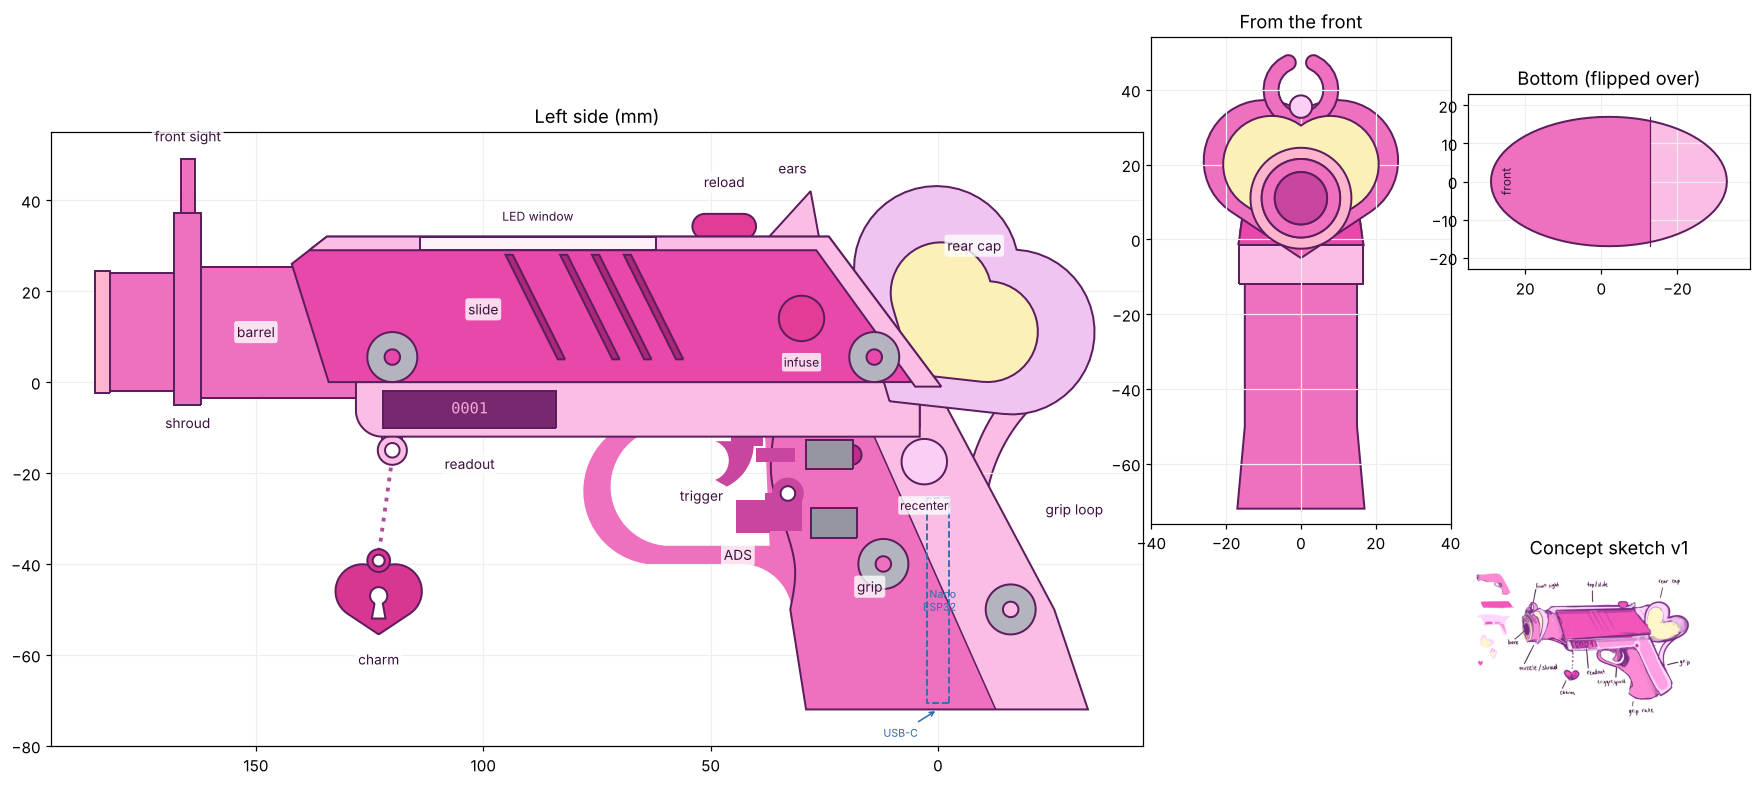
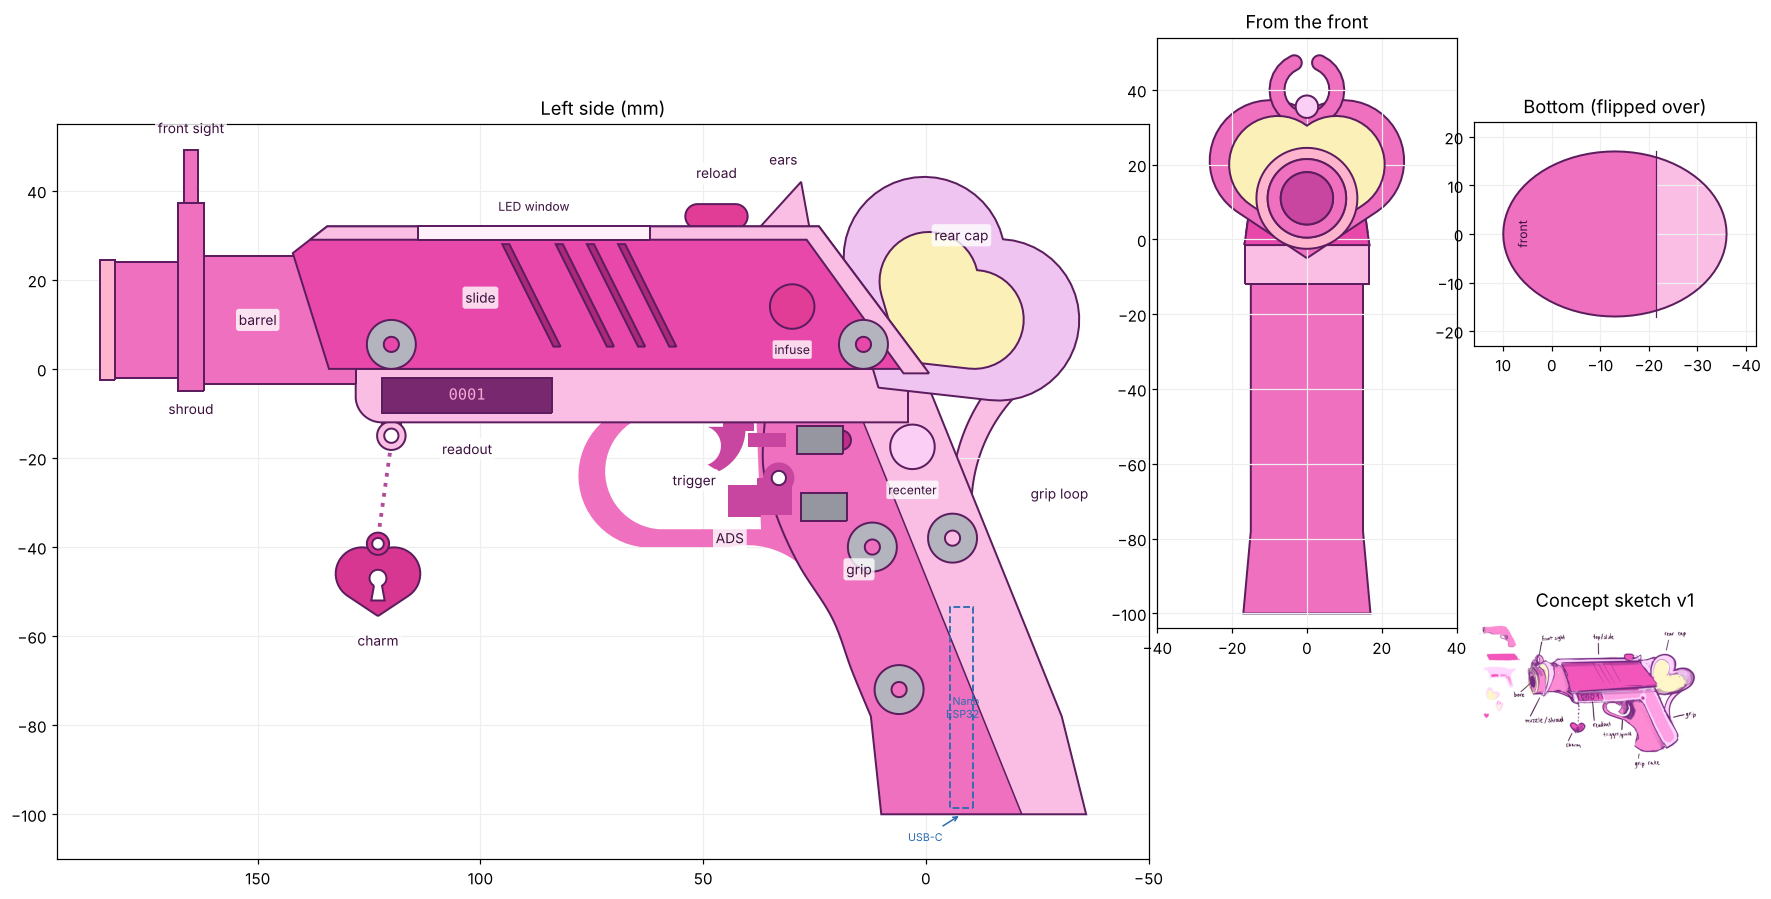
Longer, slimmer grip sized to hand measurements (v23)
Grip base moves from y=-72 to y=-100 so three fingers fit below the
trigger guard (~60 mm), and the grip is slimmed to ~40 mm round-handle
equivalent (22 deg rake front and back). Nano, standoffs, cavity, guard
web and seam follow the new grip. Preview fix for a vertex on the cut.

Claude-Session: https://claude.ai/code/session_01RDHdy5xfTrUfMAq7GtHoaE

diff --git a/Fusion/Scripts/CelestiaGunMouse/CelestiaGunMouse.py b/Fusion/Scripts/CelestiaGunMouse/CelestiaGunMouse.py
@@ -37,7 +37,7 @@ import math
 import traceback
 
 # Shown in the pop-up at the end of a run, so you can tell which version ran.
-SCRIPT_VERSION = 'v22: sturdier puffy heart (tries simpler versions before giving up)'
+SCRIPT_VERSION = 'v23: longer, slimmer grip sized to hand measurements'
 
 import adsk.core
 import adsk.fusion
@@ -87,14 +87,14 @@ SLIDE_CAVITY_TOP = SLIDE_H - TOP_STRIP_H - 2.0   # inside roof of the slide
 FRAME_CAVITY_X = (8.0, 124.0)     # hollow inside the frame, back to front
 READOUT_LIP = 1.0                 # thin rim round the window that hides a screen's edges
 READOUT_POCKET_DEPTH = 8.0        # how deep the pocket goes into the frame
-GRIP_CAVITY_BOTTOM = -52.0                        # hollow grip goes down to here
+GRIP_CAVITY_BOTTOM = -80.0                        # hollow grip goes down to here
 GRIP_CAVITY_HALF_W = 11.5                         # half width of the grip hollow (23 mm: board is 21.7)
 # Arduino Nano ESP32 (45 x 18 mm, ~5 mm thick WITHOUT headers) stands upright
 # in the grip, USB-C end down; the port opens through the bottom of the base.
 # A pocket in the base holds its USB end; tape or hot-glue the top in place.
 # The Pololu LSM6DS33 IMU (23 x 13 mm) sits in the slide, wired with 4 wires.
 BOARD_SIZE = (45.0, 18.0, 5.0)    # length, width, thickness
-BOARD_X = 0.0                     # front-back position of the board's centre
+BOARD_X = -8.0                    # front-back position of the board's centre
 BOARD_FLOOR = 1.5                 # plastic under the board's USB end
 USB_HOLE = (7.5, 13.5)            # opening for the plug (front-back, side-to-side)
 # NeoPixel stick (51.1 x 10.2 x 3.2 mm) on top of the slide between the wings,
@@ -134,8 +134,8 @@ SWITCH_HALF_LEN = 10.0            # half its 20 mm length (it lies across the gr
 FASTENER = 'standoff'
 STANDOFF_POSTS = {
     'Slide': [(120.0, 5.5), (14.0, 5.5)],
-    'Frame & Grip': [(-16.0, -50.0)],
-    'Grip panel': [(12.0, -40.0)],
+    'Frame & Grip': [(-6.0, -38.0)],
+    'Grip panel': [(12.0, -40.0), (6.0, -72.0)],
 }
 STANDOFF_POST_R = 5.5
 STANDOFF_LEN = 13.0                   # hex body length
@@ -145,8 +145,8 @@ NUT_T = 2.4                           # M3 nut thickness
 NUT_DRIVER_R = 4.0                    # hole for a 5.5 mm nut driver
 SCREW_POSTS = {
     'Slide': [(120.0, 4.0), (120.0, 22.0), (14.0, 4.0)],
-    'Frame & Grip': [(72.0, -3.5), (-16.0, -50.0)],
-    'Grip panel': [(12.0, -40.0)],
+    'Frame & Grip': [(72.0, -3.5), (-6.0, -38.0)],
+    'Grip panel': [(12.0, -40.0), (6.0, -72.0)],
 }
 POST_R = 3.5
 INSERT_R, INSERT_DEPTH = 2.0, 5.7     # M3 heat-set insert hole
@@ -192,17 +192,20 @@ READOUT_Y0, READOUT_Y1 = -10.0, -2.0
 # Grip: one shape, split into a light-pink back piece and a darker front
 # panel that sit flush and share one flat, rounded base.
 SPINE_REAR_TOP_X = 1.0      # back of the grip where it meets y = 0
-SPINE_REAR_RAKE = 28.0      # degrees from vertical
+SPINE_REAR_RAKE = 22.0      # degrees from vertical
 SPINE_FRONT_TOP_X = 14.0    # colour seam (light/dark) at the frame bottom
-SPINE_FRONT_RAKE = 24.0
+SPINE_FRONT_RAKE = 22.0     # same as the back, so the light strip stays an even width
 # Front edge of the panel: a smooth curve through these points, top to bottom
-PANEL_FRONT = [(36.0, -10.0), (36.5, -22.0), (31.5, -40.0), (33.0, -54.0), (32.0, -63.0)]
+# Sized from hand measurements (ANSUR II): about 60 mm below the trigger guard
+# for a 3-finger hold, and ~39 mm thick (as a round handle) all the way down.
+PANEL_FRONT = [(36.0, -10.0), (36.5, -22.0), (33.5, -33.0), (28.5, -44.0), (21.0, -56.0),
+               (16.5, -68.0), (11.5, -80.0), (6.5, -92.0)]
 # Flat oval base: below GRIP_CUT_Y the grip blends smoothly into a flat,
 # level bottom that is an ellipse when you flip the gun over.
-GRIP_CUT_Y = -50.0              # where the blend into the base starts
-GRIP_BASE_Y = -72.0             # the flat bottom
-BASE_CENTER_X = -2.0            # centre of the oval (front/back)
-BASE_LENGTH = 62.0              # oval length, front to back
+GRIP_CUT_Y = -78.0              # where the blend into the base starts
+GRIP_BASE_Y = -100.0            # the flat bottom
+BASE_CENTER_X = -13.0           # centre of the oval (front/back)
+BASE_LENGTH = 46.0              # oval length, front to back
 BASE_WIDTH = 34.0               # oval width, side to side
 GRIP_PIN = (19.0, -16.0)        # the little pin/screw at the top of the grip
 GRIP_PIN_R = 2.2
@@ -405,12 +408,22 @@ def slide_cavity_section():
                     (slide_half_width(hi) - WALL, hi), (-(slide_half_width(hi) - WALL), hi)])
 
 
+def front_x(y):
+    """x of the grip's front edge at height y (straight lines between the
+    PANEL_FRONT points, carried on past the ends)."""
+    pts = PANEL_FRONT
+    for (x0, y0), (x1, y1) in zip(pts, pts[1:]):
+        if y1 <= y <= y0:
+            return x0 + (x1 - x0) * (y - y0) / (y1 - y0)
+    (x0, y0), (x1, y1) = (pts[0], pts[1]) if y > pts[0][1] else (pts[-2], pts[-1])
+    return x0 + (x1 - x0) * (y - y0) / (y1 - y0)
+
+
 def grip_cavity_outline():
     """Side view of the hollow inside the grip (opens up into the frame)."""
     top, bot = -FRAME_H + 4.0, GRIP_CAVITY_BOTTOM
-    return polygon([(spine_rear_x(top) + 3.0, top), (PANEL_FRONT[0][0] - 5.5, top),
-                    (PANEL_FRONT[2][0] - 3.0, PANEL_FRONT[2][1] - 5.0), (PANEL_FRONT[3][0] - 5.0, bot),
-                    (spine_rear_x(bot) + 3.0, bot)])
+    front = [(PANEL_FRONT[0][0] - 5.5, top)] + [(front_x(y) - 3.5, y) for y in (-33.0, -44.0, -56.0, -68.0, bot)]
+    return polygon([(spine_rear_x(top) + 3.0, top)] + front + [(spine_rear_x(bot) + 3.0, bot)])
 
 
 def stadium(cx, cy, w, h):
@@ -612,17 +625,18 @@ def grip_outline():
 def grip_seam():
     """Line splitting the grip into the light back piece and the dark panel,
     running right through the base."""
-    return [('line', (spine_front_x(0.0), 0.0), (spine_front_x(-90.0), -90.0))]
+    y_end = GRIP_BASE_Y - 15.0             # past the base so the split goes all the way through
+    return [('line', (spine_front_x(0.0), 0.0), (spine_front_x(y_end), y_end))]
 
 
 def guard_loops():
     h = FRAME_H
     fx, by = GUARD_OUT_FRONT_X, GUARD_OUT_BOTTOM_Y
-    rear = PANEL_FRONT[0][0] - 8.0          # hidden inside the grip panel
     # Under the guard, a curved web sweeps down into the front of the grip so
     # the guard flows into the grip panel instead of meeting it at a corner.
     web0 = (GUARD_IN_REAR_X + 6.0, by)
-    web1 = (PANEL_FRONT[2][0] + 0.5, by - GUARD_WEB_DROP)
+    web1 = (front_x(by - GUARD_WEB_DROP) - 1.0, by - GUARD_WEB_DROP)
+    rear = web1[0] - 4.0                    # hidden inside the grip panel
     web_mid = (web0[0] - 0.71 * (web0[0] - web1[0]), web1[1] + 0.71 * (web0[1] - web1[1]))
     outer = [
         ('line', (rear, -h + 2), (fx, -h + 2)),

diff --git a/Fusion/preview/preview_side.py b/Fusion/preview/preview_side.py
@@ -131,6 +131,8 @@ def grip_side_silhouette():
             above.append(hits[-1])
         if q[1] >= cut:
             above.append(q)
+            if abs(q[1] - cut) < 1e-9:      # a vertex lying exactly on the cut
+                hits.append(q)
     xf, xb = max(h[0] for h in hits), min(h[0] for h in hits)
     bf = cgm.BASE_CENTER_X + cgm.BASE_LENGTH / 2
     bb = cgm.BASE_CENTER_X - cgm.BASE_LENGTH / 2
@@ -227,8 +229,8 @@ for text, (lx, ly) in labels.items():
     ax.annotate(text, (lx, ly), ha='center', va='center', fontsize=9, color='#3b0f3d', zorder=20,
                 bbox=dict(boxstyle='round,pad=0.2', fc='white', ec='none', alpha=0.8))
 ax.set_aspect('equal')
-ax.set_xlim(-45, 195)
-ax.set_ylim(-80, 55)
+ax.set_xlim(-50, 195)
+ax.set_ylim(cgm.GRIP_BASE_Y - 10, 55)
 ax.invert_xaxis()      # muzzle on the left, like the sketch
 ax.grid(True, color='#eee', zorder=-1)
 ax.set_title('Left side (mm)')
